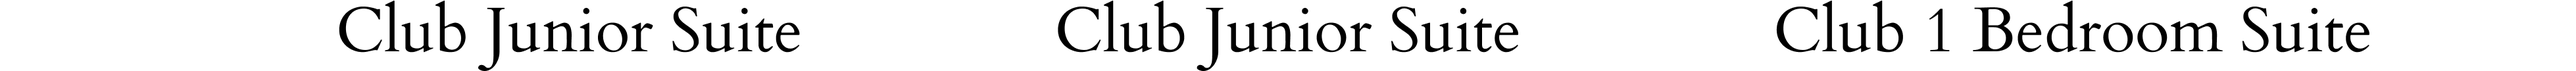
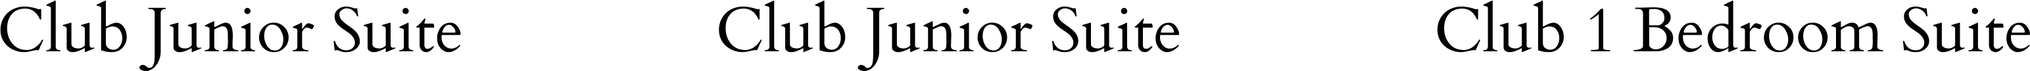
.

diff --git a/intercontinental/static/css/scss/style.scss b/intercontinental/static/css/scss/style.scss
@@ -756,14 +756,19 @@ button {
       transform: translate(-50%, -50%);
       .inner-2 {
         display: flex;
-        gap: 387px;
-        padding-left: 20vw;
         position: absolute;
         top: 50%;
         left: 50%;
-        transform: translate(-50%, -50%);
-        width: 1360px;
+        transform: translate(0, -50%);
+        width:fit-content;
         z-index: 100;
+        .img-text {
+          position: absolute;
+          top: 50%;
+          left: 0;
+          transform: translate(calc(-50% + 1220px), -50%);
+          z-index: 200;
+        }
         img {
           object-fit: contain;
         }
@@ -1286,7 +1291,7 @@ button {
     .swiper-club {
       overflow: hidden;
       margin: 0 -65px;
-      &:hover{
+      &:hover {
         cursor: grab;
       }
       .swiper-wrapper {
@@ -1340,51 +1345,51 @@ button {
   // box-wedding
   .box-wedding {
     overflow: hidden;
-    &.bg-1{
-      .inner{
-        &::after{
+    &.bg-1 {
+      .inner {
+        &::after {
           background: #46575f;
         }
       }
     }
-    &.bg-2{
-      .inner{
-        &::after{
+    &.bg-2 {
+      .inner {
+        &::after {
           background: #545a5d;
         }
       }
     }
-    &.bg-3{
-      .inner{
-        &::after{
+    &.bg-3 {
+      .inner {
+        &::after {
           background: #4d6470;
         }
       }
     }
-    &.bg-4{
-      .inner{
-        &::after{
+    &.bg-4 {
+      .inner {
+        &::after {
           background: rgb(65, 80, 88);
         }
       }
     }
-    &.bg-5{
-      .inner{
-        &::after{
+    &.bg-5 {
+      .inner {
+        &::after {
           background: #5a6c75;
         }
       }
     }
-    &.bg-6{
-      .inner{
-        &::after{
+    &.bg-6 {
+      .inner {
+        &::after {
           background: #3b6c8a;
         }
       }
     }
-    &.bg-7{
-      .inner{
-        &::after{
+    &.bg-7 {
+      .inner {
+        &::after {
           background: #7a848a;
         }
       }
@@ -1815,7 +1820,7 @@ button {
 
   // box-controll-bottom
   .box-controll-bottom {
-    border-top: 1px solid var(--Gray-6, #E1E0E1);
+    border-top: 1px solid var(--Gray-6, #e1e0e1);
     position: fixed;
     bottom: -300px;
     left: 0;
@@ -1825,12 +1830,12 @@ button {
     display: flex;
     justify-content: center;
     background-color: #fff;
-    transition: all .4s;
+    transition: all 0.4s;
     will-change: auto;
     opacity: 0;
-    &.is-show{
+    &.is-show {
       opacity: 1;
-      bottom:-31px;
+      bottom: -31px;
     }
   }
 }

diff --git a/intercontinental/Type_B.html b/intercontinental/Type_B.html
@@ -134,11 +134,12 @@
         <img src="static/images/section3_text_1.png" alt="">
       </div>
     </div>
-    <div class="text-1">
+    <!-- <div class="text-1">
       <img src="static//images/section3_text_2.png" alt="">
-    </div>
+    </div> -->
     <div class="img-cover">
       <div class="inner-2">
+        <img src="static//images/section3_text_2.png" alt="" class="img-text">
         <img src="static/images/section3_img_1.png" alt="">
       </div>
     </div>
@@ -416,12 +417,9 @@
 
     // section-3
     const ani8 = gsap.timeline();
-    ani8.to(".section-3 .text-1 img", {
-      //marginTop: -500,
-      x: -2000
-    }, 'start01').to(".section-3 .img-cover", {
+    ani8.to(".section-3 .img-cover", {
       //marginLeft: -500
-      x: -2000
+      x: -1800
     }, 'start01')
 
     ScrollTrigger.create({

diff --git a/intercontinental/static/css/style.css b/intercontinental/static/css/style.css
@@ -694,14 +694,19 @@ button {
 }
 .typeB .section-3 .img-cover .inner-2 {
   display: flex;
-  gap: 387px;
-  padding-left: 20vw;
   position: absolute;
   top: 50%;
   left: 50%;
-  transform: translate(-50%, -50%);
-  width: 1360px;
+  transform: translate(0, -50%);
+  width: fit-content;
   z-index: 100;
+}
+.typeB .section-3 .img-cover .inner-2 .img-text {
+  position: absolute;
+  top: 50%;
+  left: 0;
+  transform: translate(calc(-50% + 1220px), -50%);
+  z-index: 200;
 }
 .typeB .section-3 .img-cover .inner-2 img {
   object-fit: contain;
@@ -1640,7 +1645,7 @@ button {
   z-index: 2000;
 }
 .typeA .box-controll-bottom {
-  border-top: 1px solid var(--Gray-6, #E1E0E1);
+  border-top: 1px solid var(--Gray-6, #e1e0e1);
   position: fixed;
   bottom: -300px;
   left: 0;
